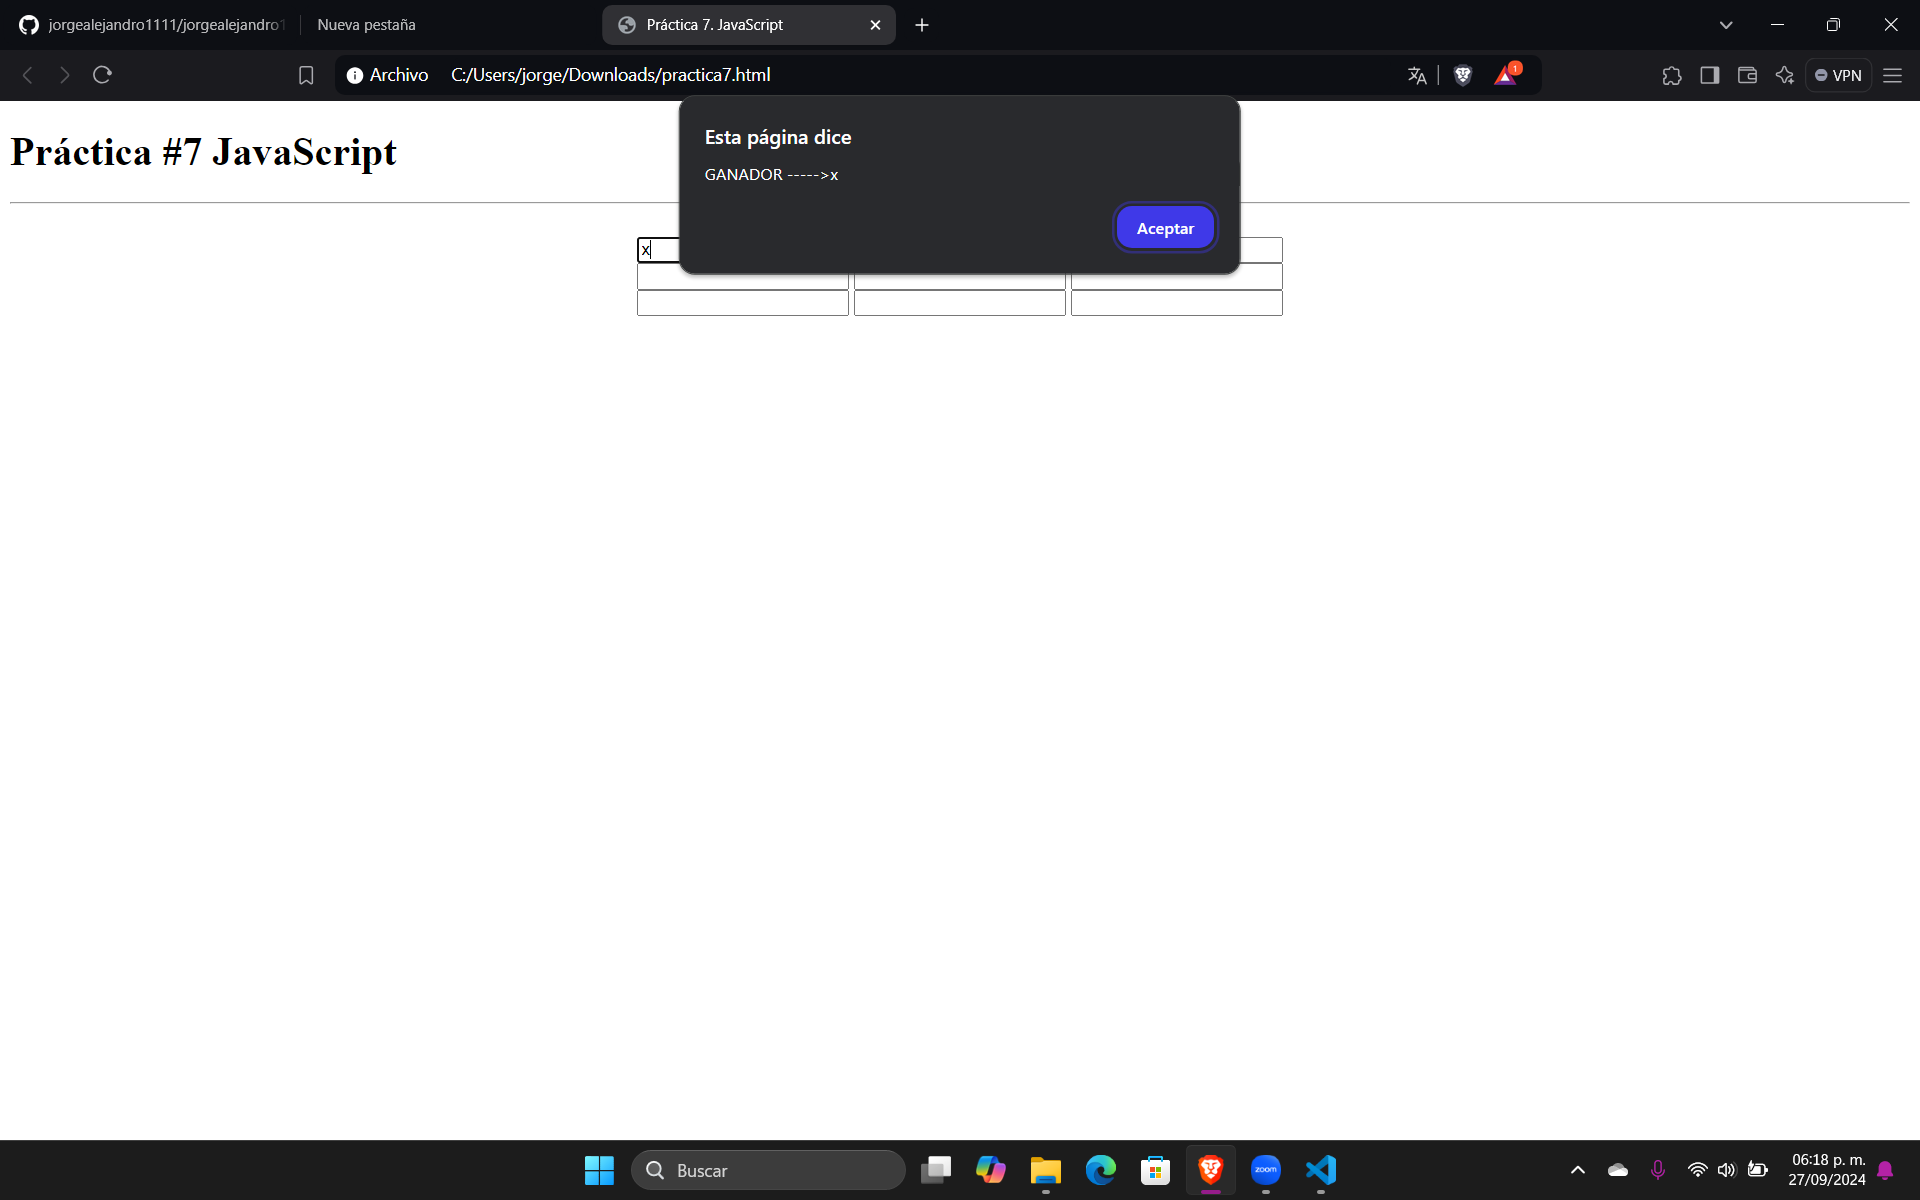
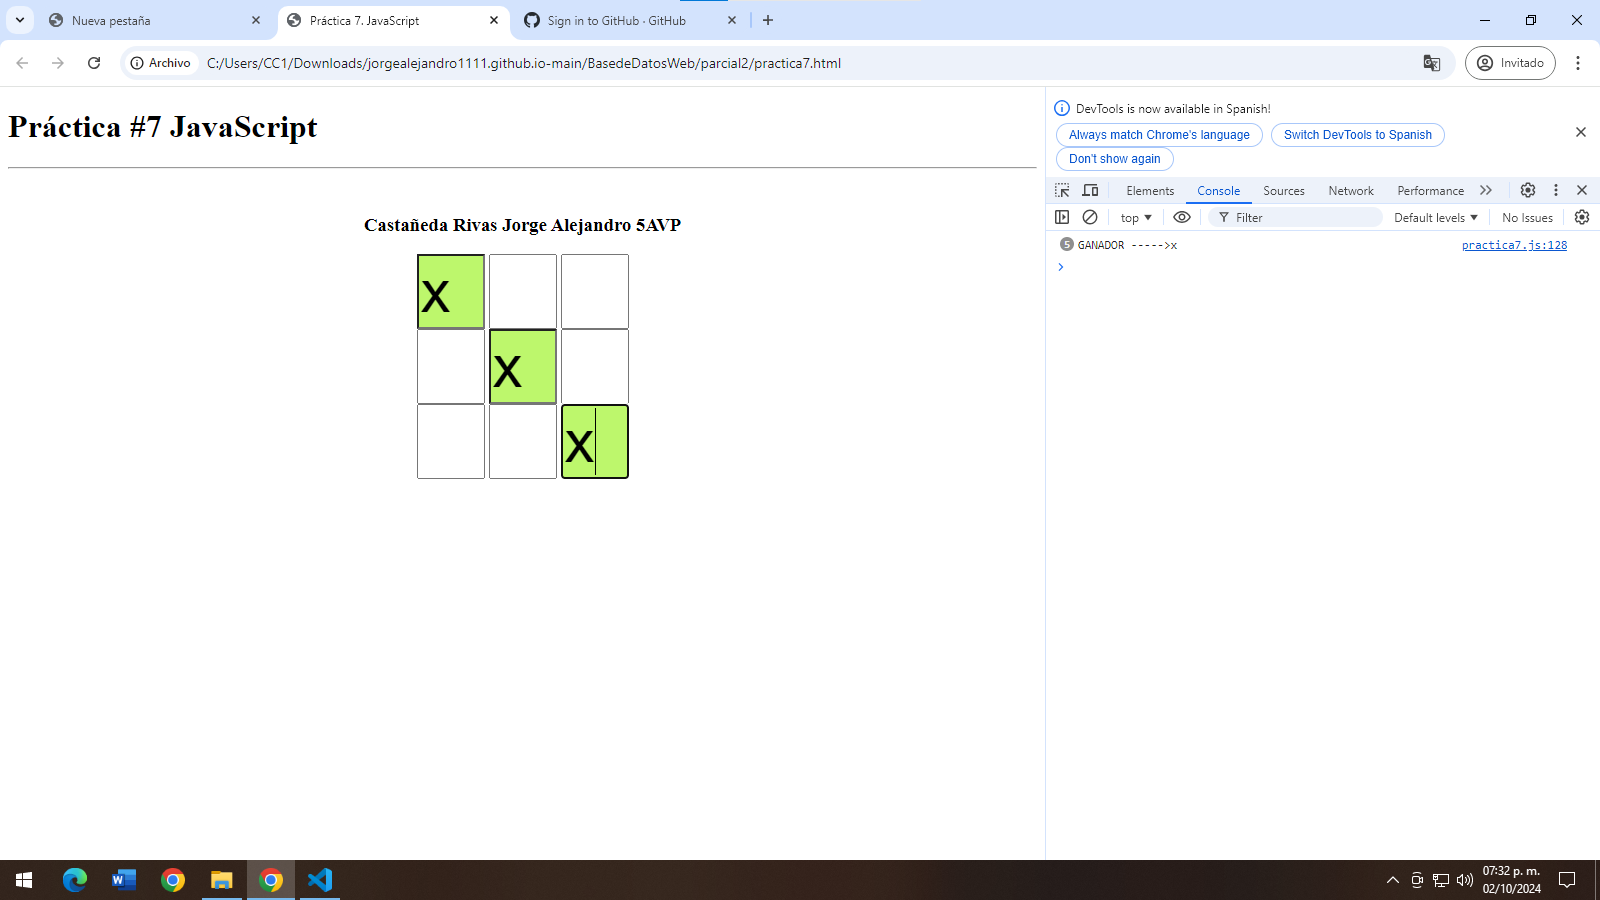
Práctica #7 02/10/2024
Actualización de la práctica #7

Castañeda Rivas Jorge Alejandro

Changed region(s): [[0.0, 0.0, 1.0, 0.5289], [0.0, 0.9333, 1.0, 1.0]]

diff --git a/BasedeDatosWeb/parcial2/practica7.js b/BasedeDatosWeb/parcial2/practica7.js
@@ -22,14 +22,122 @@ function validar(posicion){
         switch(posicion){
             case 1:
                 if(cuadro1 == cuadro2 && cuadro1 == cuadro3){
-                    alert("GANADOR ----->" + cuadro1)
+                    console.log("GANADOR ----->" + cuadro1)
+                    pintar(1,2,3);
                 } else if(cuadro1 == cuadro5 && cuadro1 == cuadro9){
-                    alert("GANADOR ----->" + cuadro1)
+                    console.log("GANADOR ----->" + cuadro1)
+                    pintar(1,5,9);
                 } else if( cuadro1 == cuadro4 && cuadro1 == cuadro7){
-                    alert("GANADOR ----->" + cuadro1)
+                    console.log("GANADOR ----->" + cuadro1)
+                    pintar(1,4,7);
                 }
                 break;
+
+            case 2:
+                if(cuadro2 == cuadro1 && cuadro2 == cuadro3){
+                    console.log("GANADOR ----->" + cuadro2)
+                    pintar(2,1,3);
+                } else if(cuadro2 == cuadro5 && cuadro2 == cuadro8){
+                    console.log("GANADOR ----->" + cuadro2)
+                    pintar(2,5,8);
+                }
+
+                break;
+
+            case 3:
+                if(cuadro3 == cuadro2 && cuadro3 == cuadro1){
+                    console.log("GANADOR ----->" + cuadro3)
+                    pintar(3,2,1);
+                } else if(cuadro3 == cuadro5 && cuadro3 == cuadro7){
+                    console.log("GANADOR ----->" + cuadro3)
+                    pintar(3,5,7);
+                } else if( cuadro3 == cuadro6 && cuadro3 == cuadro9){
+                    console.log("GANADOR ----->" + cuadro3)
+                    pintar(3,6,9);
+                }
+                break;
+
+            case 4:
+                if(cuadro4 == cuadro1 && cuadro4 == cuadro7){
+                    console.log("GANADOR ----->" + cuadro4)
+                    pintar(4,1,7);
+                } else if(cuadro4 == cuadro5 && cuadro4 == cuadro6){
+                    console.log("GANADOR ----->" + cuadro4)
+                    pintar(4,5,6);
+                } 
+                break;
+
+
+            case 5:
+                if(cuadro5 == cuadro4 && cuadro5 == cuadro6){
+                    console.log("GANADOR ----->" + cuadro5)
+                    pintar(5,4,6);
+                } else if(cuadro5 == cuadro1 && cuadro5 == cuadro9){
+                    console.log("GANADOR ----->" + cuadro5)
+                    pintar(5,1,9);
+                } else if( cuadro5 == cuadro2 && cuadro5 == cuadro8){
+                    console.log("GANADOR ----->" + cuadro5)
+                    pintar(5,2,8);
+                }else if( cuadro5 == cuadro3 && cuadro5 == cuadro7){
+                    console.log("GANADOR ----->" + cuadro5)
+                    pintar(5,3,7);
+                }
+                break;
+
+            case 6:
+                if(cuadro6 == cuadro5 && cuadro6 == cuadro4){
+                    console.log("GANADOR ----->" + cuadro6)
+                    pintar(6,5,4);
+                } else if(cuadro6 == cuadro3 && cuadro6 == cuadro9){
+                    console.log("GANADOR ----->" + cuadro6)
+                    pintar(6,3,9);
+                } 
+                break;
+
+            case 7:
+                if(cuadro7 == cuadro4 && cuadro7 == cuadro1){
+                    console.log("GANADOR ----->" + cuadro7)
+                    pintar(7,4,1);
+                } else if(cuadro7 == cuadro8 && cuadro7 == cuadro9){
+                    console.log("GANADOR ----->" + cuadro7)
+                    pintar(7,8,9);
+                } else if( cuadro7 == cuadro5 && cuadro7 == cuadro3){
+                    console.log("GANADOR ----->" + cuadro7)
+                    pintar(7,5,3);
+                }
+                break;
+
+            case 8:
+                if(cuadro8 == cuadro7 && cuadro8 == cuadro9){
+                    console.log("GANADOR ----->" + cuadro8)
+                    pintar(8,7,9);
+                } else if(cuadro8 == cuadro5 && cuadro8 == cuadro2){
+                    console.log("GANADOR ----->" + cuadro8)
+                    pintar(8,5,2);
+                }
+                break;
+
+            case 9:
+                if(cuadro9 == cuadro6 && cuadro9 == cuadro3){
+                    console.log("GANADOR ----->" + cuadro9)
+                    pintar(9,6,3);
+                } else if(cuadro9 == cuadro8 && cuadro9 == cuadro7){
+                    console.log("GANADOR ----->" + cuadro9)
+                    pintar(9,8,7);
+                } else if( cuadro9 == cuadro1 && cuadro9 == cuadro5){
+                    console.log("GANADOR ----->" + cuadro9)
+                    pintar(9,1,5);
+                }
+                break;
+            
         }
+        
     }
 
+}
+
+function pintar(p1, p2, p3){
+    document.getElementById("cuadro"+p1).style.backgroundColor = "#bdf76c";
+    document.getElementById("cuadro"+p2).style.backgroundColor = "#bdf76c";
+    document.getElementById("cuadro"+p3).style.backgroundColor = "#bdf76c";
 }

diff --git a/BasedeDatosWeb/parcial2/practica7.html b/BasedeDatosWeb/parcial2/practica7.html
@@ -6,11 +6,21 @@
     <title>Práctica 7. JavaScript</title>
     <script src="practica7.js"></script>
 </head>
+    <style>
+    input{
+        font-size: 60px;
+        max-width: 60px;
+
+    }
+
+    </style>
 <body>
     <h1>Práctica #7 JavaScript</h1><hr><br>
 
-    <center>
 
+
+    <center>
+        <h3>Castañeda Rivas Jorge Alejandro 5AVP</h3>
         <input type="text" onkeyup="validar(1)" id="cuadro1">
         <input type="text" onkeyup="validar(2)" id="cuadro2">
         <input type="text" onkeyup="validar(3)" id="cuadro3"> <br>
